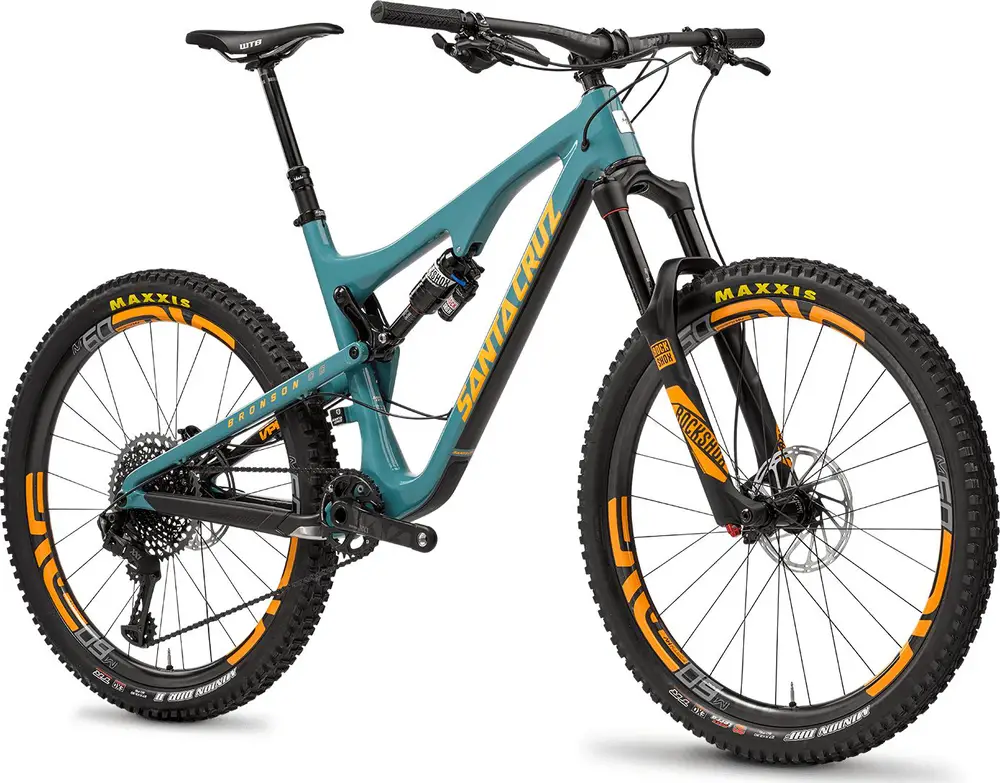
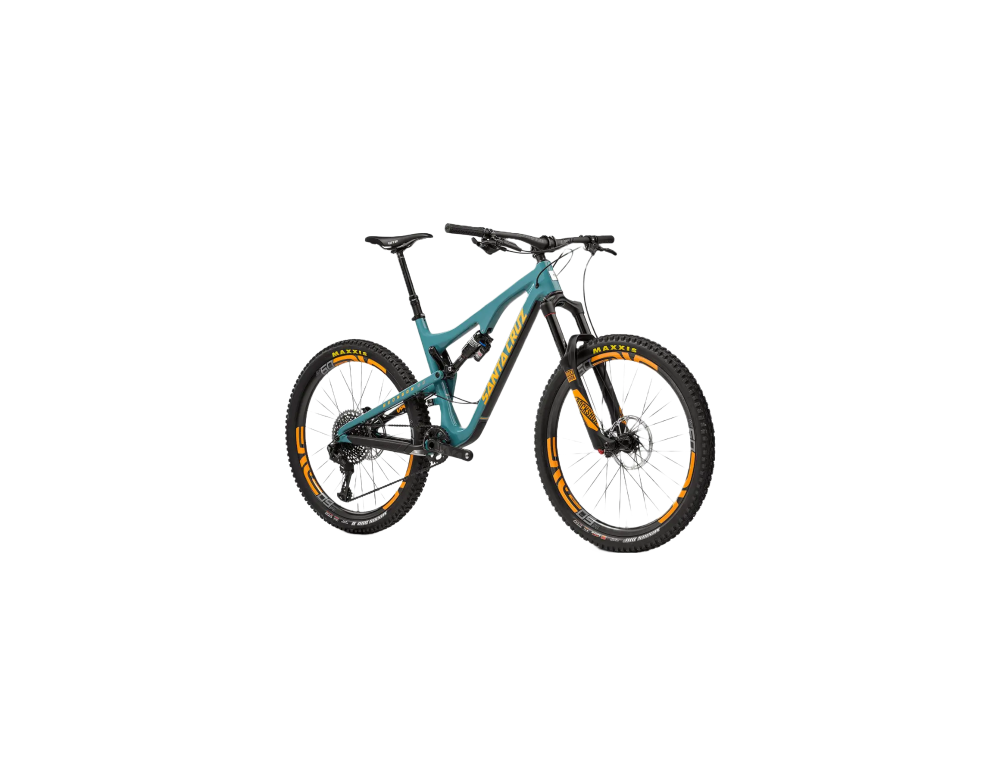
before adding google fonts

diff --git a/client/css/app.css b/client/css/app.css
@@ -1,49 +1,101 @@
+html {
+    background-color: #EDE7F1;
+    font-size: 1em;
+}
+
+
 .App {
-    margin: 1rem;
+    /* margin: 1rem; */
     font-family: Arial, Helvetica, sans-serif;
+    /* background-color: #FFFFFF; */
+    
 }
 #mainContainer {
-    border: 1px solid black;
+    /* border: 1px solid black;
+  display: block; */
+
+
 }
 
 .container {
-    border: 1px solid black;
+    
 }
 
 #repair-container {
     display: flex;
-    justify-content: space-around;
-    width: 100%;
+    justify-content: flex-start;
+    
+    height:33%;
+    
+    
 
+}
+img {
+ 
+    object-fit: contain;
 }
 
 .title {
-    display: flex;
+    /* display: flex; */
+    background-color: #98DFE8;
+    
 }
-#bike-name {
-    margin-left: auto;
-    margin-right: auto;
-}
+
 
 #comp-container{
     display: flex;
     flex-direction: column;
     gap: 2px;
-    width: 700px;
+    /* width: %; */
+    margin-left: auto;
+    margin-right: 2em;
+    margin-top: auto;
+    margin-bottom: auto;
 }
 
 .component {
-    border: 1px solid black;
+   
     display: flex;
     justify-content: space-between ;
     align-items: center;
+    background-color: #EDE7F1;
+    border-radius: 10px;
+    width: 100%;
+    padding-left: 1em;
+    padding-right: .5em;
 }
 
 #stats-container {
     display: flex;
     justify-content: space-around;
+    height:40%;
+    background-color: #D8DFF9;
 }
 
 .stats {
-    border: 1px solid black;
+   
+}
+
+h1 {
+    /* background-color: #488f31; */
+}
+
+#title {
+    margin-left: auto;
+    margin-right: auto;
+    display: block;
+}
+
+button {
+    border-radius: .5em;
+    justify-self: center
+}
+
+.repair_button {
+    margin-top: 1em;
+    margin-right: 1rem;
+    margin-left: 3em;
+    height: 3em;
+    border: none;
+    background-color: #98DFE8;
 }

diff --git a/client/containers/RepairsContainer.js b/client/containers/RepairsContainer.js
@@ -13,15 +13,10 @@ const RepairContainer = ({
 }) => {
 
     return(
-              <div>
-                <div className='title'><h2 id='bike-name'>{bikeName}</h2>
-                    
-                
-                </div>
-
-                
+              <div className='title'>
+                <h2 id='title'>{bikeName}</h2>
                 <div className='container' id='repair-container'>
-                <img src={img} height={`500px`}></img>
+                <img src={img}></img>
                 <BikeComponentContainer 
                 components={components}
                 />

diff --git a/client/components/BikeComponent.js b/client/components/BikeComponent.js
@@ -28,7 +28,7 @@ const percentage = (currentHours, serviceInterval) => {
                 <h4>{`Hours Until Service: ${serviceInterval - currentHours > 0 ? serviceInterval - currentHours :0 }`}</h4>
                 <form onSubmit={onSubmit}> 
                         
-                <button id={_id} name="edit" type='submit'>Complete Repair</button>
+                <button id={_id} name="edit" type='submit' className="repair_button">Complete Repair</button>
                 </form>
             </div>
         )

diff --git a/client/components/BikeStats.js b/client/components/BikeStats.js
@@ -17,7 +17,7 @@ const BikeStats =(props)=> {
       };
         return(
             <div className="stats">
-                <h2></h2>
+                <h2>Bike Stats</h2>
                 <span><h4>{`Total Miles:${totalMiles}`}</h4></span>
                 <span><h4>{`Total Elevation:${totalElevation}ft`}</h4></span>
                 <span><h4>{`Total Hours:${totalHours}`}</h4></span>
